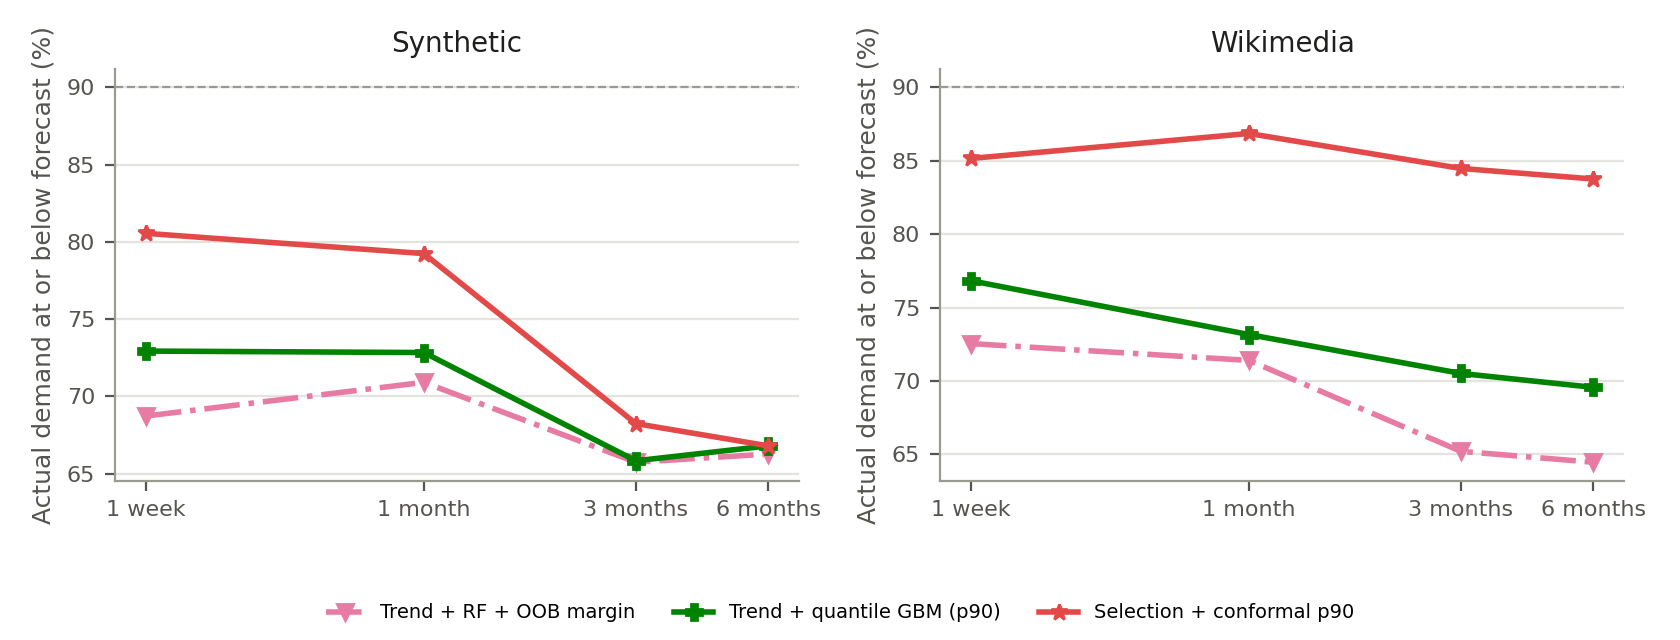
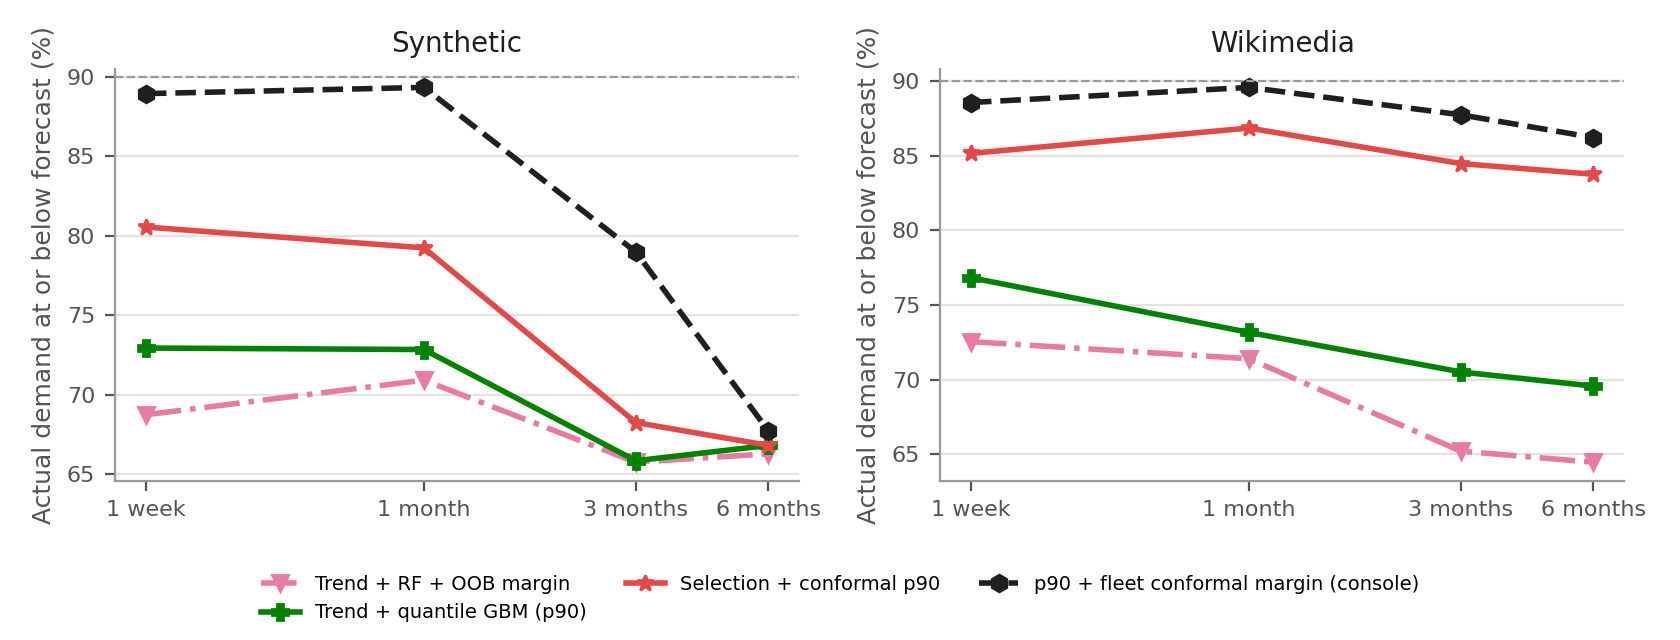
Calibrate the capacity p90 with a fleet-wide conformal margin
The quantile model's p90 covered only 66-73% of backtest outcomes. Each
horizon's p90 is now widened by the 90th percentile of (actual - p90) across
the fleet's backtest. Scored on forecasts calibrated only with errors known at
the time, pooled margins reach 88-92% coverage against 81-90% for
per-machine margins, at similar width. The console shows the model's own p90
next to the widened one and states the margin per horizon.

diff --git a/frontend/app.js b/frontend/app.js
@@ -640,6 +640,11 @@ async function loadCapacity() {
   state.capacity = data;
 
   $("#capacity-scope").textContent = `${data.covered} machines`;
+  const cal = Object.entries(data.calibration || {}).filter(([, c]) => c)
+    .map(([label, c]) => `${label}: +${c.margin} pts (model alone covered ${c.model_coverage_pct}%)`).join(" · ");
+  $("#capacity-calibration").textContent = cal
+    ? `The model's own 90% line was too optimistic in testing, so each is widened by how far it missed before. ${cal}.`
+    : "";
   const b = data.breaching;
   $("#capacity-kpis").innerHTML = [
     kpi("Over 80% today", b.now, "not a forecast: act now"),
@@ -682,7 +687,8 @@ async function loadCapacityDetail(resourceId) {
     target.innerHTML = `
       <div class="metric-grid" style="margin-bottom:18px">
         ${d.horizons.map((row) => `<div><small>${esc(row.label)} (${esc(row.date)})</small>
-          <strong>${pct(row.p50)}</strong><em>p10 ${pct(row.p10)} · p90 ${pct(row.p90)}</em></div>`).join("")}
+          <strong>${pct(row.p50)}</strong><em>p10 ${pct(row.p10)} · p90 ${pct(row.p90)}</em>
+          <em>model said ${pct(row.p90_model)}, widened by its track record</em></div>`).join("")}
       </div>
       ${fanChart(d)}
       ${backtestChart(d.backtest)}

diff --git a/frontend/index.html b/frontend/index.html
@@ -241,6 +241,7 @@
         </div>
 
         <div class="kpi-row" id="capacity-kpis"></div>
+        <p class="safety-note" id="capacity-calibration"></p>
 
         <section class="card">
           <div class="section-head compact">

diff --git a/agents/capacity.py b/agents/capacity.py
@@ -38,6 +38,7 @@ INVENTORY_CSV = Path("data/vm_inventory.csv")
 # it as proof: what each model said six months before, against what happened.
 BACKTEST_CSV = Path("research/results/forecasts_synthetic.csv")
 BACKTEST_MODELS = ("rf", "linear", "hybrid_q90")
+CALIBRATION_QUANTILE = 0.9
 
 HORIZONS = {"1 week": 7, "1 month": 30, "3 months": 91, "6 months": 182}
 TREND_WINDOW = 365
@@ -236,7 +237,7 @@ def capacity_plan(resource_id: str, full: bool = True) -> dict[str, Any]:
     `full=False` fits only the quantiles the decisions read (p90 everywhere, plus
     the 6-month p10): 5 models instead of 12, which is what the fleet table needs.
     """
-    return datacache.derived(f"capacity::{resource_id}::{full}", [CAPACITY_CSV, COST_CSV],
+    return datacache.derived(f"capacity::{resource_id}::{full}", [CAPACITY_CSV, COST_CSV, BACKTEST_CSV],
                              lambda: _build_plan(resource_id, full))
 
 
@@ -251,6 +252,7 @@ def _build_plan(resource_id: str, full: bool = True) -> dict[str, Any]:
     s, rows = loaded
     origin = len(s) - 1
     last_date = rows["date"].iloc[-1]
+    margins = {h: c["margin"] for h, c in calibration().items()}
     horizons = []
     for label, h in HORIZONS.items():
         quantiles = (0.1, 0.5, 0.9) if full else (0.1, 0.9) if label == "6 months" else (0.9,)
@@ -259,8 +261,9 @@ def _build_plan(resource_id: str, full: bool = True) -> dict[str, Any]:
             horizons.append({
                 "label": label, "days": h,
                 "date": (last_date + pd.Timedelta(days=h)).date().isoformat(),
-                "p10": _round(band.get(0.1)), "p50": _round(band.get(0.5)), "p90": round(band[0.9], 1),
-                "breach": band[0.9] >= BREACH_PCT,
+                "p10": _round(band.get(0.1)), "p50": _round(band.get(0.5)),
+                "p90": round(band[0.9] + margins.get(h, 0.0), 1), "p90_model": round(band[0.9], 1),
+                "breach": band[0.9] + margins.get(h, 0.0) >= BREACH_PCT,
             })
     monthly_cost = _monthly_cost(resource_id)
     current_peak = round(float(s.wk[origin]), 1)
@@ -286,6 +289,33 @@ def _build_plan(resource_id: str, full: bool = True) -> dict[str, Any]:
     if full:
         plan["backtest"] = _backtest(resource_id)
     return plan
+
+
+def calibration() -> dict[int, dict[str, float]]:
+    """How much to widen the model's p90 so it covers ~90% of real outcomes.
+
+    The quantile model's p90 covered only 66-73% of backtest outcomes. The
+    margin is the 90th percentile of (actual - p90) across the whole fleet's
+    backtest per horizon (split-conformal). Pooled beats per-machine: tested
+    on forecasts calibrated only with errors known at the time, pooled landed
+    at 88-92% coverage, per-machine at 81-90% (research/analyze.py).
+    """
+    return datacache.derived("capacity::calibration", [BACKTEST_CSV], _build_calibration)
+
+
+def _build_calibration() -> dict[int, dict[str, float]]:
+    df = datacache.load_csv(BACKTEST_CSV)
+    if df.empty:
+        return {}
+    out = {}
+    for h, rows in df.groupby("horizon"):
+        errors = rows["actual"] - rows["hybrid_q90"]
+        out[int(h)] = {
+            "margin": round(max(0.0, float(np.quantile(errors, CALIBRATION_QUANTILE))), 2),
+            "model_coverage_pct": round(float((errors <= 0).mean() * 100), 1),
+            "forecasts": int(len(rows)),
+        }
+    return out
 
 
 def _backtest(resource_id: str, horizon: int = HORIZONS["6 months"]) -> dict[str, Any]:
@@ -358,7 +388,7 @@ def _decisions(horizons: list[dict[str, Any]], monthly_cost: float,
 
 def fleet_capacity() -> dict[str, Any]:
     """Every machine's plan, tightest first."""
-    return datacache.derived("capacity::fleet", [CAPACITY_CSV, COST_CSV], _build_fleet)
+    return datacache.derived("capacity::fleet", [CAPACITY_CSV, COST_CSV, BACKTEST_CSV], _build_fleet)
 
 
 def _build_fleet() -> dict[str, Any]:
@@ -389,7 +419,9 @@ def _build_fleet() -> dict[str, Any]:
         "horizons": list(HORIZONS),
         "breaching": {label: sum(1 for r in rows if r["first_breach"] == label) for label in ["now", *HORIZONS]},
         "commitment_savings_usd": round(sum(r["commitment_savings_usd"] for r in rows), 2),
-        "model": "linear trend (trailing year) + quantile gradient boosting on residuals (p10/p50/p90)",
+        "model": "linear trend (trailing year) + quantile gradient boosting on residuals; p90 widened by a "
+                 "fleet-wide conformal margin per horizon",
+        "calibration": {label: calibration().get(h) for label, h in HORIZONS.items()},
     }
 
 

diff --git a/research/analyze.py b/research/analyze.py
@@ -50,11 +50,12 @@ FIGURES = Path("research/figures")
 COST_RATIOS = [1, 2, 4, 9, 19]
 POOL = ("persistence", "linear", "rf", "hybrid")
 MIN_TRACK = 6
-MODELS = ALL_MODELS + ("selected", "selected_c90")
+MODELS = ALL_MODELS + ("selected", "selected_c90", "hybrid_q90_cal")
 LABELS = {
     "persistence": "Persistence", "linear": "Linear trend", "rf": "Random Forest",
     "hybrid": "Trend + RF", "hybrid_oob90": "Trend + RF + OOB margin", "hybrid_q90": "Trend + quantile GBM (p90)",
     "selected": "Track-record selection", "selected_c90": "Selection + conformal p90",
+    "hybrid_q90_cal": "p90 + fleet conformal margin (console)",
 }
 # Validated categorical order (dataviz palette, slots 1-6). Markers and dashes
 # carry identity too, so the figures survive greyscale print.
@@ -62,6 +63,7 @@ STYLE = {
     "persistence": ("#2a78d6", "o", ":"), "linear": ("#eb6834", "s", "--"), "rf": ("#1baf7a", "^", "-"),
     "hybrid": ("#eda100", "D", "-"), "hybrid_oob90": ("#e87ba4", "v", "-."), "hybrid_q90": ("#008300", "P", "-"),
     "selected": ("#6250d6", "X", "-"), "selected_c90": ("#e34948", "*", "-"),
+    "hybrid_q90_cal": ("#1f1f1d", "h", "--"),
 }
 HORIZON_LABEL = {h: label for label, h in HORIZONS.items()}
 
@@ -85,6 +87,23 @@ def add_track_record(df: pd.DataFrame) -> pd.DataFrame:
         g["selected"], g["selected_c90"], g["tracked"] = selected, calibrated, tracked
         out.append(g)
     return pd.concat(out, ignore_index=True)
+
+
+def add_fleet_calibration(df: pd.DataFrame) -> pd.DataFrame:
+    """The console's method, scored honestly: each p90 is widened by the 90th
+    percentile of the whole dataset's (actual - p90) errors known by its origin.
+    Falls back to the raw p90 until MIN_TRACK errors exist."""
+    df = df.copy()
+    df["hybrid_q90_cal"] = df["hybrid_q90"]
+    for (_, h), g in df.groupby(["dataset", "horizon"]):
+        errors = (g["actual"] - g["hybrid_q90"]).to_numpy()
+        origins = g["origin"].to_numpy()
+        for origin in np.unique(origins):
+            known = errors[origins + h <= origin]
+            if len(known) >= MIN_TRACK:
+                rows = g.index[origins == origin]
+                df.loc[rows, "hybrid_q90_cal"] += max(0.0, float(np.quantile(known, 0.9)))
+    return df
 
 
 def score(group: pd.DataFrame, model: str) -> dict[str, float]:
@@ -211,7 +230,7 @@ def figure_example(df: pd.DataFrame, dataset: str, series: str, horizon: int, na
 def main() -> None:
     df = pd.concat([pd.read_csv(RESULTS / f"forecasts_{name}.csv") for name in ("synthetic", "wikimedia")
                     if (RESULTS / f"forecasts_{name}.csv").exists()], ignore_index=True)
-    df = add_track_record(df)
+    df = add_fleet_calibration(add_track_record(df))
     print("share of forecasts with a track record:")
     print(df.groupby(["dataset", "horizon"])["tracked"].mean().mul(100).round(1).to_string(), "\n")
     FIGURES.mkdir(parents=True, exist_ok=True)
@@ -223,7 +242,7 @@ def main() -> None:
     by_regime.round(3).to_csv(RESULTS / "metrics_by_regime.csv", index=False)
 
     point = ["persistence", "linear", "rf", "hybrid", "selected"]
-    upper = ["hybrid_oob90", "hybrid_q90", "selected_c90"]
+    upper = ["hybrid_oob90", "hybrid_q90", "selected_c90", "hybrid_q90_cal"]
     figure_by_horizon(by_horizon, "mae", "MAE (pp of capacity)", point, "fig1_mae_vs_horizon.png")
     figure_by_horizon(by_horizon[by_horizon["dataset"] == "synthetic"], "beyond_capture",
                       "Beyond-history targets caught (%)", ["persistence", "linear", "rf", "hybrid", "hybrid_q90"],

diff --git a/tests/test_capacity.py b/tests/test_capacity.py
@@ -95,6 +95,9 @@ class CapacityApiTests(unittest.TestCase):
         for row in body["horizons"]:
             self.assertLessEqual(row["p10"], row["p90"])
         self.assertEqual(len(body["history"]["dates"]), len(body["history"]["weekly_peak"]))
+        for row in body["horizons"]:
+            # The shown p90 is the model's p90 plus a non-negative fleet margin.
+            self.assertGreaterEqual(row["p90"], row["p90_model"])
         backtest = body["backtest"]
         self.assertEqual(len(backtest["dates"]), len(backtest["actual"]))
         self.assertEqual(set(backtest["mae"]), set(capacity.BACKTEST_MODELS))
